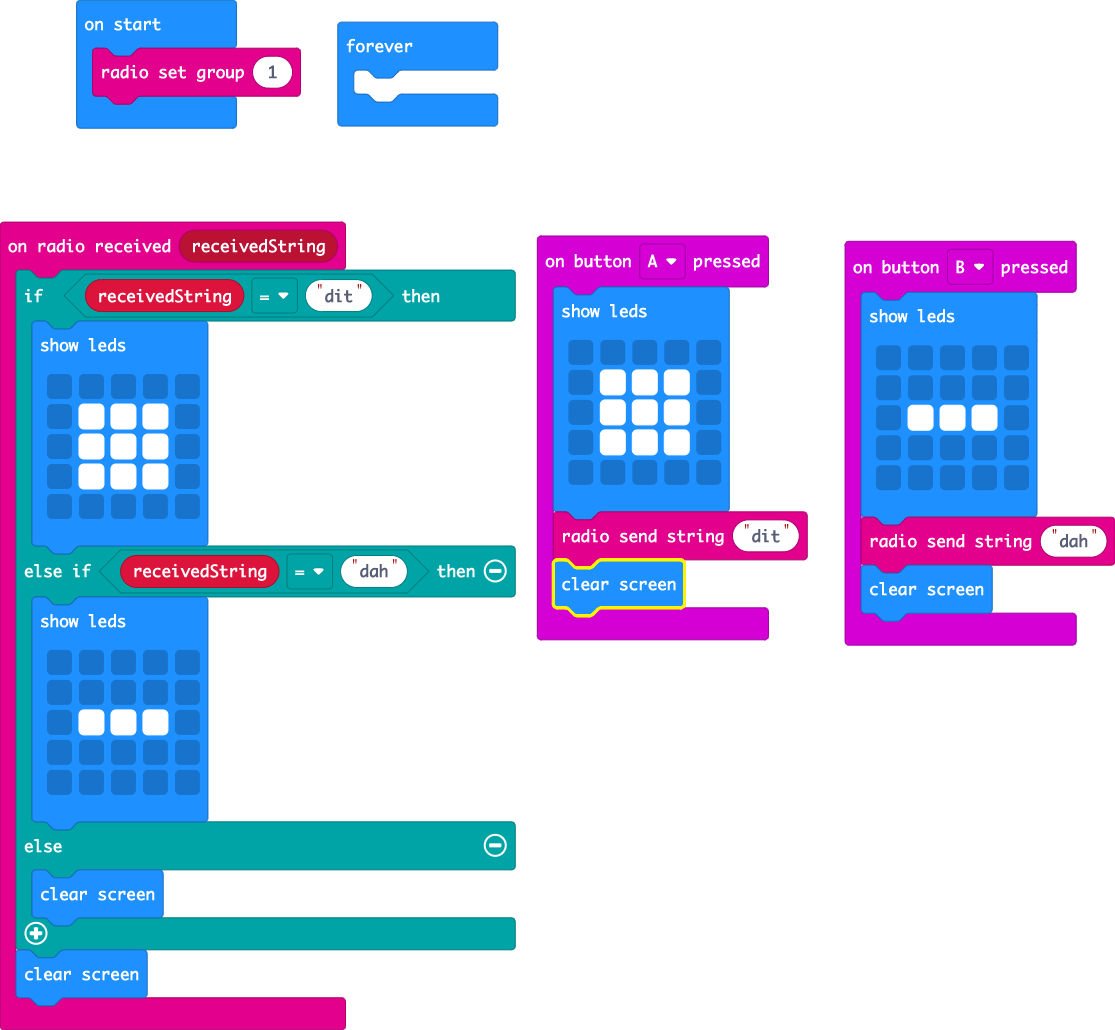
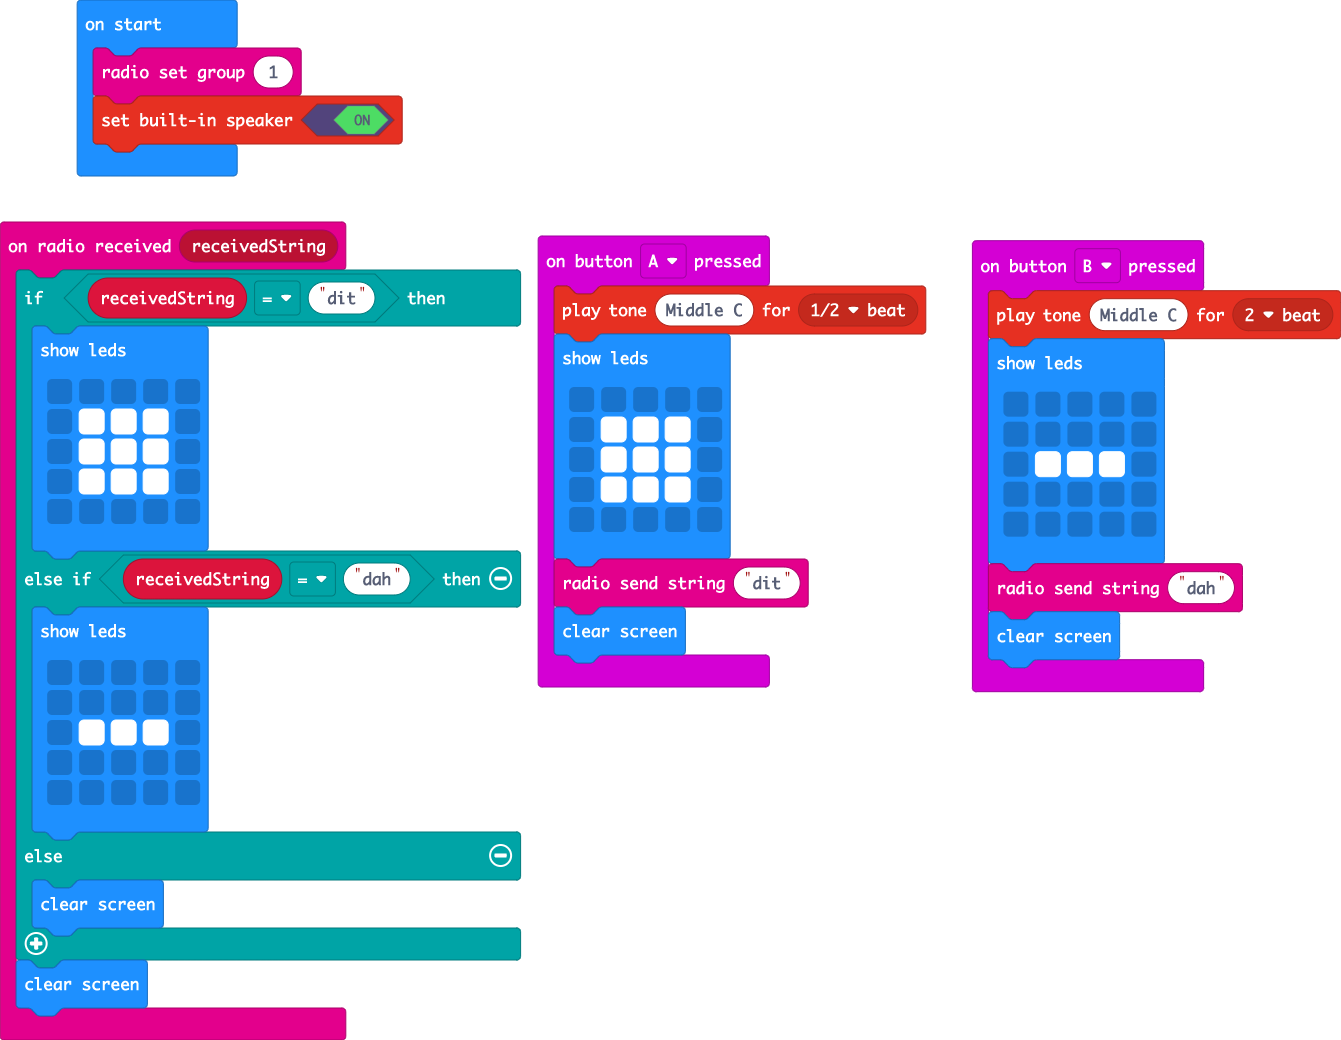
Made the microbit make a sound when A or B are pressed.

Changed region(s): [[0.0, 0.0, 1.0, 0.9942], [0.3659, 0.7767, 0.4879, 0.932], [0.2439, 0.9631, 0.3354, 1.0]]

diff --git a/main.ts b/main.ts
@@ -1,4 +1,5 @@
 input.onButtonPressed(Button.A, function () {
+    music.playTone(262, music.beat(BeatFraction.Half))
     basic.showLeds(`
         . . . . .
         . # # # .
@@ -32,6 +33,7 @@ radio.onReceivedString(function (receivedString) {
     basic.clearScreen()
 })
 input.onButtonPressed(Button.B, function () {
+    music.playTone(262, music.beat(BeatFraction.Double))
     basic.showLeds(`
         . . . . .
         . . . . .
@@ -43,6 +45,4 @@ input.onButtonPressed(Button.B, function () {
     basic.clearScreen()
 })
 radio.setGroup(1)
-basic.forever(function () {
-	
-})
+music.setBuiltInSpeakerEnabled(true)
